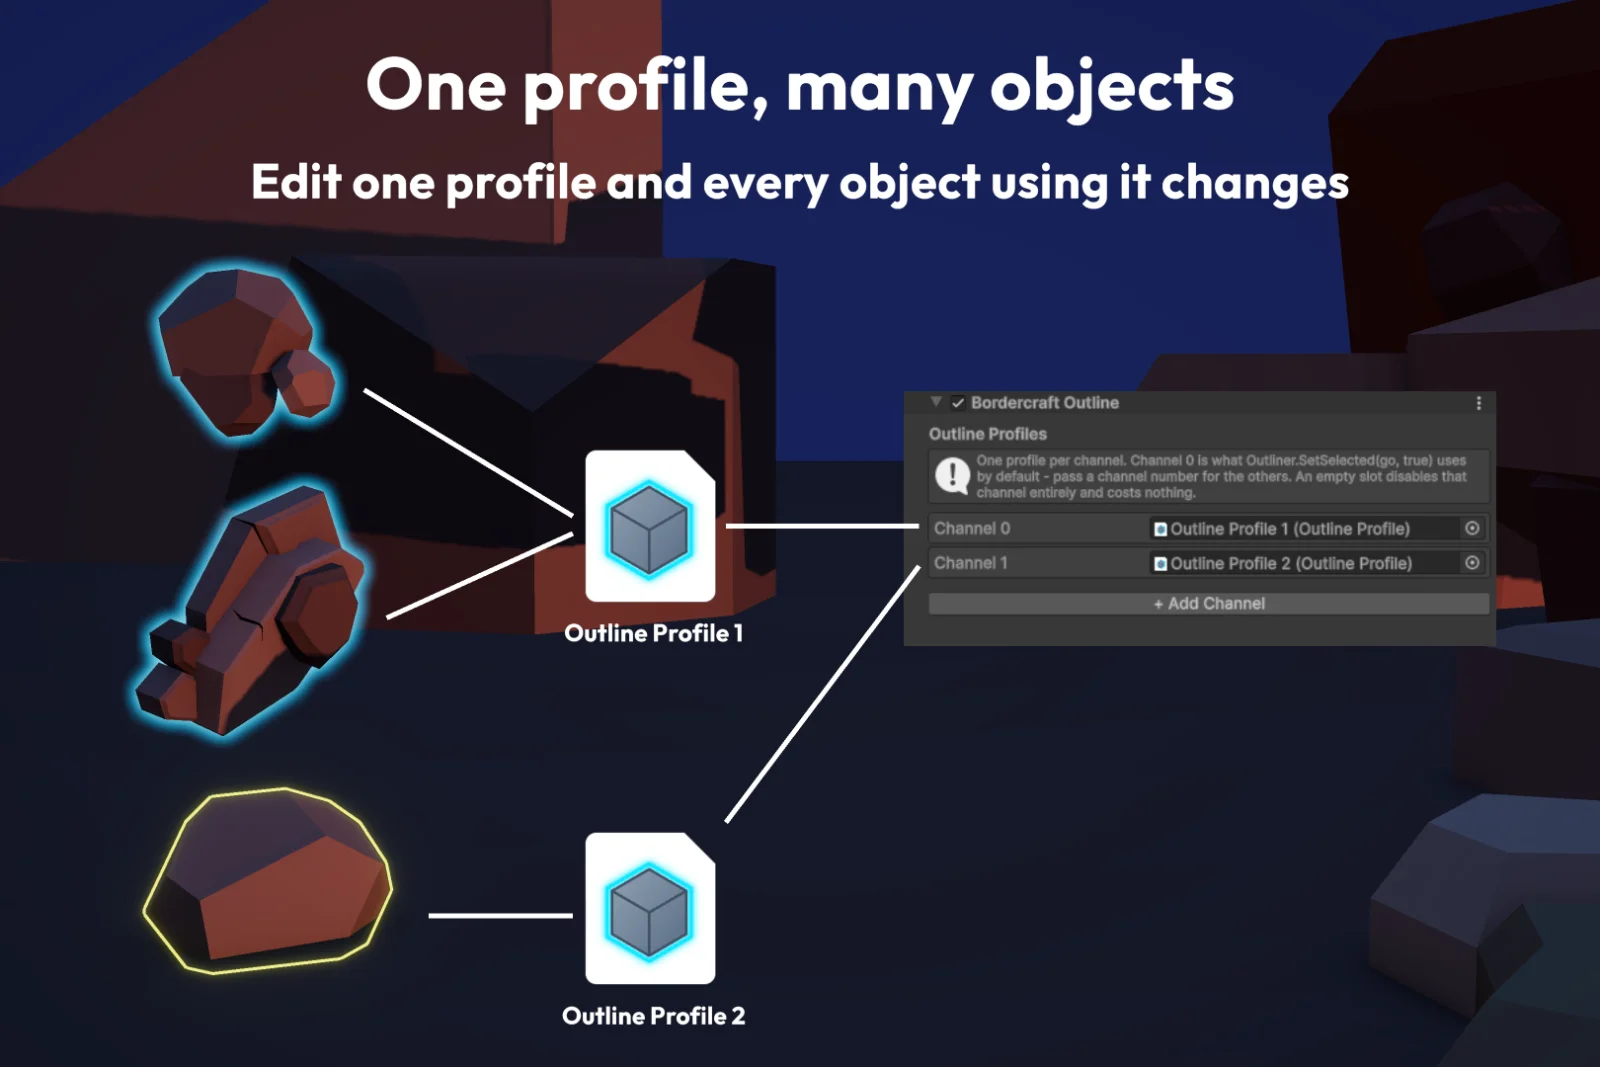
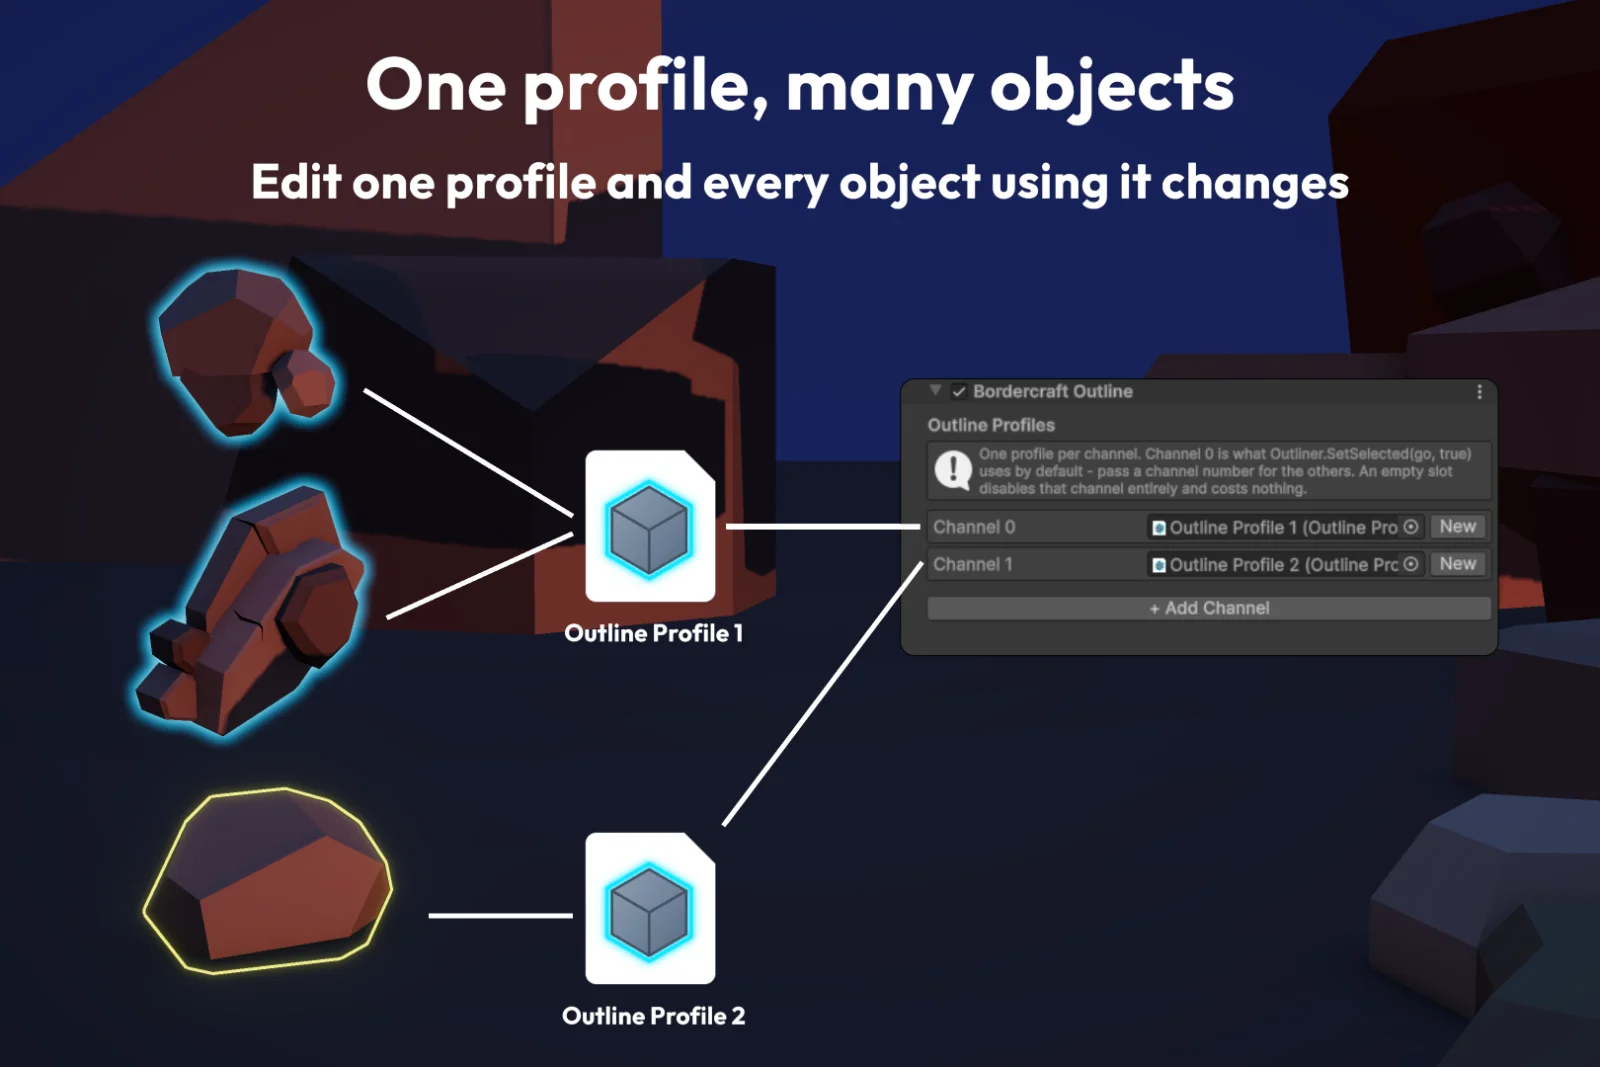
Refresh six Bordercraft slides and follow the New button in the docs

Changed region(s): [[0.5625, 0.3402, 0.9375, 0.6186], [0.8438, 0.3402, 0.9375, 0.3711]]

diff --git a/tools/bordercraft-selection-outline-urp/docs/index.html b/tools/bordercraft-selection-outline-urp/docs/index.html
@@ -329,7 +329,7 @@
       <div class="step"><span class="step-num">03</span><span>From code: <code>Outliner.SetSelected(myGameObject, true);</code> — no scene setup, no pre-placed component required.</span></div>
       <div class="step"><span class="step-num">04</span><span>Tune the look by editing the <code>OutlineProfile</code> asset assigned to Channel 0 — style, color, radius, wave, etc. take effect immediately.</span></div>
     </div>
-    <p>You can also create profiles directly via <code>Assets → Create → Bordercraft → Outline Profile</code>, or by clicking <strong>+ Add Channel</strong> on the Outline Renderer Feature's Inspector to wire up a second channel with its own new profile in one click.</p>
+    <p>You can also create profiles directly via <code>Assets → Create → Bordercraft → Outline Profile</code>, or by clicking <strong>New</strong> on a channel row on the Outline Renderer Feature's Inspector, which creates a profile and assigns it to that channel in one click.</p>
 
     <!-- DEMO SCENE -->
     <h2 id="demo-scene">Demo Scene</h2>
@@ -345,7 +345,8 @@
     <!-- CHANNELS -->
     <h2 id="channels">Channels</h2>
     <p>The Renderer Feature's Inspector shows one row per configured channel, <strong>Channel 0</strong> onward, plus a <strong>+ Add Channel</strong> button (up to 4 total). By default only Channel 0 is filled in, so <code>Outliner.SetSelected(go, true)</code> — which defaults to channel 0 — is all most projects need.</p>
-    <p>To show a second, independently-styled outline at the same time (e.g. a different color for enemies vs interactables), click <strong>+ Add Channel</strong>, then select those objects with <code>Outliner.SetSelected(go, true, 1)</code>. Each channel is fully independent — its own profile, its own zero-cost-when-idle gating, its own scissor rect — so an empty or unused slot costs nothing even while others are active.</p>
+    <p><strong>+ Add Channel</strong> only opens the next row — it leaves the profile empty rather than creating an asset in your project for a channel you may not keep. Fill that row by dragging in a profile you already have, or click <strong>New</strong> on the row to create one and assign it in place.</p>
+    <p>To show a second, independently-styled outline at the same time (e.g. a different color for enemies vs interactables), add Channel 1 that way, then select those objects with <code>Outliner.SetSelected(go, true, 1)</code>. Each channel is fully independent — its own profile, its own zero-cost-when-idle gating, its own scissor rect — so an empty or unused slot costs nothing even while others are active.</p>
     <div class="note"><strong>Live status:</strong> in Play mode, each filled-in row shows a status dot (green = at least one object currently selected on that channel, grey = idle) with the active count next to it.</div>
     <div class="warn"><strong>Missing profile warning:</strong> if an object is selected on a channel with no profile assigned, a warning is logged once (not every frame) naming the channel, instead of silently rendering nothing.</div>
 
@@ -396,7 +397,7 @@
     <!-- OUTLINE PROFILE -->
     <h2 id="outline-profile">OutlineProfile</h2>
     <p>An <code>OutlineProfile</code> is a serializable asset describing an outline's look — style, color, radius, wave, etc. It contains no rendering plumbing; that lives entirely in the Renderer Feature.</p>
-    <p><strong>Ways to create a profile:</strong> <code>Assets → Create → Bordercraft → Outline Profile</code>, click <strong>+ Add Channel</strong> on the Outline Renderer Feature's Inspector, or let the Setup Wizard create and assign one automatically.</p>
+    <p><strong>Ways to create a profile:</strong> <code>Assets → Create → Bordercraft → Outline Profile</code>, click <strong>New</strong> on a channel row on the Outline Renderer Feature's Inspector (on a channel that already has one, this replaces the assignment — the old asset stays in the project), or let the Setup Wizard create and assign one automatically.</p>
 
     <h3>Parameters</h3>
     <div class="table-wrap">

diff --git a/tools/bordercraft-selection-outline-urp/changelog/index.html b/tools/bordercraft-selection-outline-urp/changelog/index.html
@@ -295,7 +295,7 @@
         <div class="change-group-title">Editor Tooling</div>
         <div class="item-list">
           <div class="item">A <strong>Setup Wizard</strong> automatically adds the Outline feature to your URP renderers on first import, and can be reopened any time from the Tools menu.</div>
-          <div class="item">The Renderer Feature's Inspector shows one row per channel with a live status dot in Play mode, and a one-click <strong>+ Add Channel</strong> button that creates and assigns a new profile automatically.</div>
+          <div class="item">The Renderer Feature's Inspector shows one row per channel with a live status dot in Play mode, a <strong>+ Add Channel</strong> button that opens the next row, and a <strong>New</strong> button on every row that creates a profile and assigns it to that channel. Adding a channel never writes an asset into your project on its own.</div>
           <div class="item">The Profile inspector shows exactly which Renderer assets and channels currently use it, with a button to jump straight to each one.</div>
           <div class="item">Selection can also be pre-wired directly in the Editor — add an Outline Target component and just toggle it — and previews correctly in the Scene view without needing to press Play.</div>
           <div class="item">The Outline Target inspector warns when an animated character's bounds may not follow its animation, which would cut part of its outline off, and fixes it in one click.</div>
